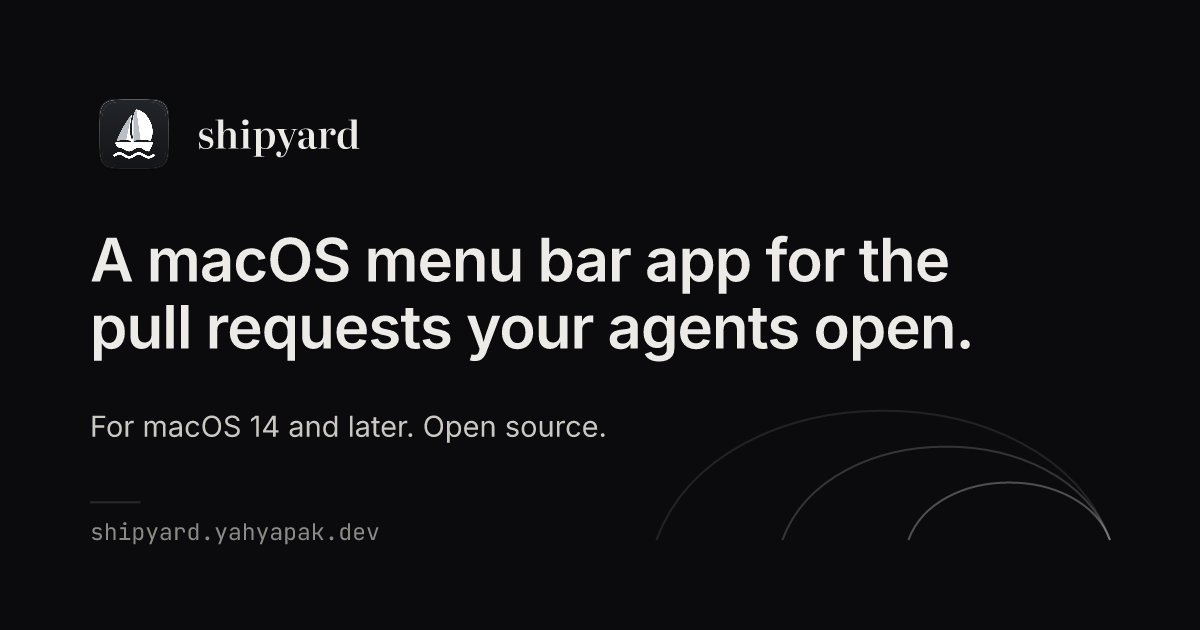
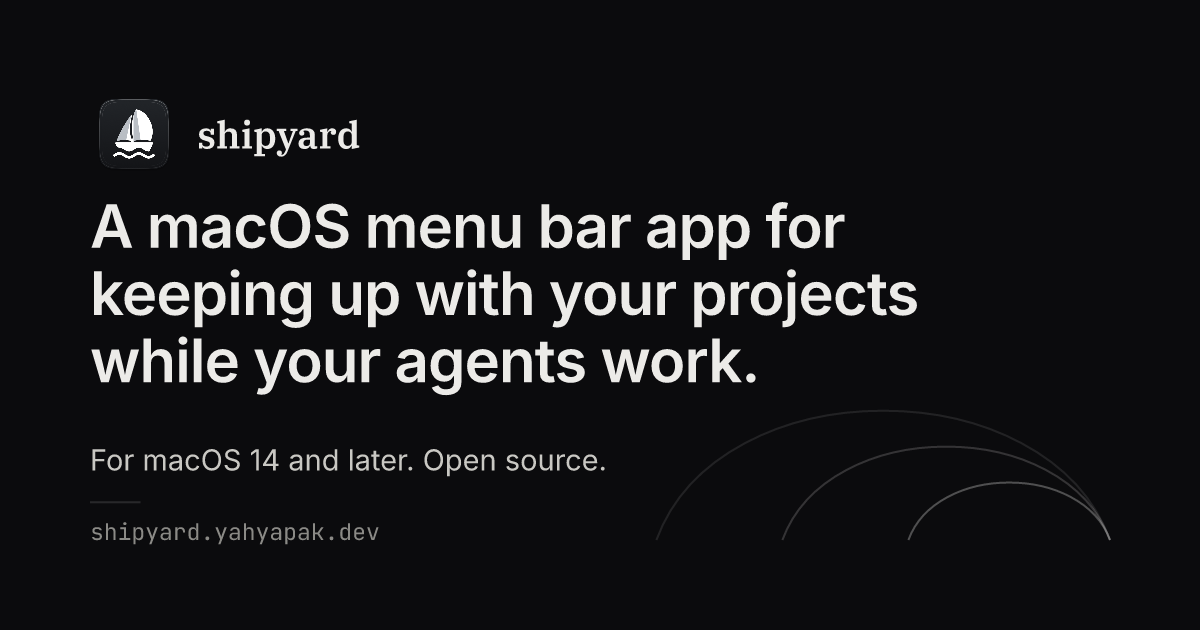
feat(site): use the new one line, keeping up with your projects while your agents work
- messaging.ts: the line and the category, and a proof sentence short enough for the home description
- the home title, the landing's what and who, and the docs lede name everything shipyard lists, not only pull requests
- the social cards and the github preview are drawn again with the line and the new wordmark

Changed region(s): [[0.0617, 0.3016, 0.8017, 0.6333], [0.0617, 0.6635, 0.4933, 0.754], [0.1542, 0.181, 0.3083, 0.2413]]

diff --git a/site/src/docs/content.ts b/site/src/docs/content.ts
@@ -40,7 +40,7 @@ export const GROUPS: { name: string; ids: string[] }[] = [
 export const SECTIONS: DocSection[] = [
   {
     id: 'what', title: 'What it is', nav: 'What it is',
-    lede: 'Your pull requests, issues and workflow runs, in the menu bar, with one number for what needs you.',
+    lede: 'Your pull requests, issues, workflow runs, pings and notes, grouped by project in the menu bar, with one number for what needs you.',
     body: '<p>Coding agents open pull requests and issues and start workflow runs, often several at once across several repositories. shipyard lists them in the menu bar, from anyone, grouped into projects you name. The number beside its icon counts the items that need attention: new, changed since you last opened them, waiting on your review, or failing their checks.<sup class="fn"></sup></p>\n<p>It can notify you when something happens, and your agents can ping you when they need you. What it shows lives in one TOML file that you, or your agents, edit.<sup class="fn"></sup></p>',
     notes: [
       'Clicking an item opens it on GitHub and clears its attention until it changes again. Closed items never need attention.',

diff --git a/site/src/landing/copy.ts b/site/src/landing/copy.ts
@@ -1,10 +1,10 @@
 // The landing page's words. The one line, install lines and links come from messaging.ts; this adds the first
 // screen's few sentences: what it is, who it's for, how it's used, and the basic facts.
 
-export const WHAT = 'Your pull requests, issues and workflow runs, from every repository you watch, in one list in the menu bar. The number beside its icon counts what needs you.';
+export const WHAT = 'Your pull requests, issues, workflow runs, pings from your agents and notes, grouped by project, in one list in the menu bar. The number beside its icon counts what needs you.';
 
 /** The two uses, as equals, as the messaging kit asks. */
-export const WHO = 'For people whose coding agents open pull requests for them, and for maintainers who review what other people open.';
+export const WHO = 'For people whose coding agents work on their projects, and for maintainers who review what other people open.';
 
 export const HOW = 'Click a row to open it on GitHub. Tell your agent what to show, and it edits the one file shipyard reads. Agents ping you when they need you.';
 

diff --git a/site/src/messaging.ts b/site/src/messaging.ts
@@ -5,13 +5,13 @@
 export const NAME = 'shipyard';
 
 /** The category, as the messaging kit words it. */
-export const CATEGORY = 'A macOS menu bar app for pull requests.';
+export const CATEGORY = 'A macOS menu bar app.';
 
-/** The one line, positioning A of the messaging kit. */
-export const LINE = 'A macOS menu bar app for the pull requests your agents open.';
+/** The one line, as the messaging kit words it. */
+export const LINE = 'A macOS menu bar app for keeping up with your projects while your agents work.';
 
 /** One proof point after the line, for meta descriptions (the kit's "one line, then one proof point"). */
-export const PROOF = 'One number for what needs you, one file your agents edit, and pings from any machine.';
+export const PROOF = 'One number for what needs you, one file your agents edit, pings from any machine.';
 
 export const SITE_URL = 'https://shipyard.yahyapak.dev';
 export const REPO = 'https://github.com/yahyabedirhan/shipyard';

diff --git a/site/src/site.test.ts b/site/src/site.test.ts
@@ -52,8 +52,8 @@ describe('page heads', () => {
     expect(routeOf('/elsewhere')).toBe('not-found');
   });
 
-  it('use the one line from the messaging kit, positioning A', () => {
-    expect(LINE).toBe('A macOS menu bar app for the pull requests your agents open.');
+  it('use the one line from the messaging kit', () => {
+    expect(LINE).toBe('A macOS menu bar app for keeping up with your projects while your agents work.');
     expect(LINE.length).toBeLessThan(80);
   });
 });

diff --git a/site/src/pages.ts b/site/src/pages.ts
@@ -23,7 +23,7 @@ export interface PageMeta {
 export const PAGES: PageMeta[] = [
   {
     id: 'home', path: '/', file: 'index.html',
-    title: `${NAME}: a menu bar app for the pull requests your agents open`,
+    title: `${NAME}: keep up with your projects while your agents work`,
     description: `${LINE} ${PROOF}`,
     image: 'og/home.png', imageAlt: `${NAME}: ${LINE}`, card: 'For macOS 14 and later. Open source.', listed: true,
   },
